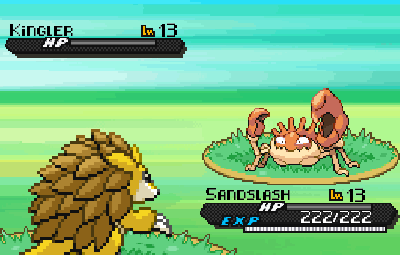
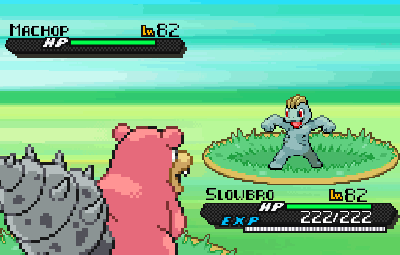
Healthbars + recolors

diff --git a/pokemon/pokemon.py b/pokemon/pokemon.py
@@ -36,9 +36,23 @@ class pokemon:
             self.moveData = json.load(rawMoves)
         self.font = ImageFont.truetype('data/pokemon/pokemonname.ttf', 10)
         self.healthFont = ImageFont.truetype('data/pokemon/pokemonname.ttf', 9)
+        self.healthbar_high = Image.open('data/pokemon/sprites/healthbar_high.png')
+        self.healthbar_half = Image.open('data/pokemon/sprites/healthbar_half.png')
+        self.healthbar_low = Image.open('data/pokemon/sprites/healthbar_low.png')
 
     def get_user(self, user_id):
         return discord.User(id=str(user_id))
+
+    def getHealthBar(self, health, maxHealth):
+        if (health > maxHealth / 2):
+            healthbar = self.healthbar_high.copy()
+        elif (health <= maxHealth / 2) and (health > maxHealth * 0.2):
+            healthbar = self.healthbar_half.copy()
+        else:
+            healthbar = self.healthbar_low.copy()
+        healthbar = healthbar.resize(size=(int((health/maxHealth) * 84), 5))
+        return healthbar
+
 
     def makePlayerBar(self, pokemon):
         plyrbar = self.playerbar.copy()
@@ -48,10 +62,12 @@ class pokemon:
         # Player pokemon level
         draw.text((145, 0), str(pokemon["level"]), font=self.font, fill=(0, 0, 0, 255))
         # Player health
-        health = pokemon["actualStats"]["hp"]
+        health = pokemon["health"]
         leftPad = len(str(health))
         draw.text((131 - (10) * leftPad, 23), str(health), font=self.healthFont, fill=(255, 255, 255, 255))
-        draw.text((140, 23), str(health), font=self.healthFont, fill=(255, 255, 255, 255))
+        draw.text((140, 23), str(pokemon["actualStats"]["hp"]), font=self.healthFont, fill=(255, 255, 255, 255))
+        healthbar = self.getHealthBar(pokemon["health"], pokemon["actualStats"]["hp"])
+        plyrbar.paste(healthbar, (87, 16))
         return plyrbar
 
     def makeEnemyBar(self, pokemon):
@@ -61,6 +77,8 @@ class pokemon:
         draw.text((5, -1), str.capitalize(pokemon["name"]), font=self.font, fill=(0, 0, 0, 255))
         # Enemy pokmeon level
         draw.text((152, 0), str(pokemon["level"]), font=self.font, fill=(0, 0, 0, 255))
+        healthbar = self.getHealthBar(pokemon["health"], pokemon["actualStats"]["hp"])
+        enmybr.paste(healthbar, (66, 17))
         return enmybr
 
     @commands.group(pass_context=True, name='pokemon')
@@ -101,6 +119,8 @@ class pokemon:
         pokemon2["level"] = level
         pokemon1["actualStats"] = self.calculate_stats(pokemon1["stats"], pokemon1["level"])
         pokemon2["actualStats"] = self.calculate_stats(pokemon2["stats"], pokemon2["level"])
+        pokemon1["health"] = random.randint(1, pokemon1["actualStats"]["hp"])
+        pokemon2["health"] = random.randint(1, pokemon2["actualStats"]["hp"])
 
         image1 = Image.open('data/pokemon/sprites/' + str(pokemon1["id"]) + 'b.png').convert("RGBA")
         image1 = image1.resize(size=(96 * 3, 96 * 3))

diff --git a/pokemon/f.py b/pokemon/f.py
@@ -13,6 +13,10 @@ enemybar = Image.open('data/sprites/enemybar.png')
 font = ImageFont.truetype('data/pokemonname.ttf', 10)
 healthFont = ImageFont.truetype('data/pokemonname.ttf', 9)
 
+healthbar_high = Image.open('data/sprites/healthbar_high.png')
+healthbar_half = Image.open('data/sprites/healthbar_half.png')
+healthbar_low = Image.open('data/sprites/healthbar_low.png')
+
 def makePlayerBar(pokemon):
     plyrbar = playerbar.copy()
     draw = ImageDraw.Draw(plyrbar)
@@ -25,6 +29,10 @@ def makePlayerBar(pokemon):
     leftPad = len(str(health))
     draw.text((131 - (10) * leftPad, 23), str(health), font=healthFont, fill=(255, 255, 255, 255))
     draw.text((140, 23), str(health), font=healthFont, fill=(255, 255, 255, 255))
+    healthbar = healthbar_high.copy()
+    healthbar = healthbar.resize(size=(84, 5))
+    plyrbar.paste(healthbar, (87, 16))
+    plyrbar.save("playerbar.png")
     return plyrbar
 
 def makeEnemyBar(pokemon):
@@ -34,6 +42,10 @@ def makeEnemyBar(pokemon):
     draw.text((5, -1), str.capitalize(pokemon["name"]), font=font, fill=(0, 0, 0, 255))
     # Enemy pokmeon level
     draw.text((152, 0), str(pokemon["level"]), font=font, fill=(0, 0, 0, 255))
+    healthbar = healthbar_high.copy()
+    healthbar = healthbar.resize(size=(84, 5))
+    enmybr.paste(healthbar, (66, 17))
+    enmybr.save("enemybar.png")
     return enmybr
 
 level = random.randint(1, 100)
